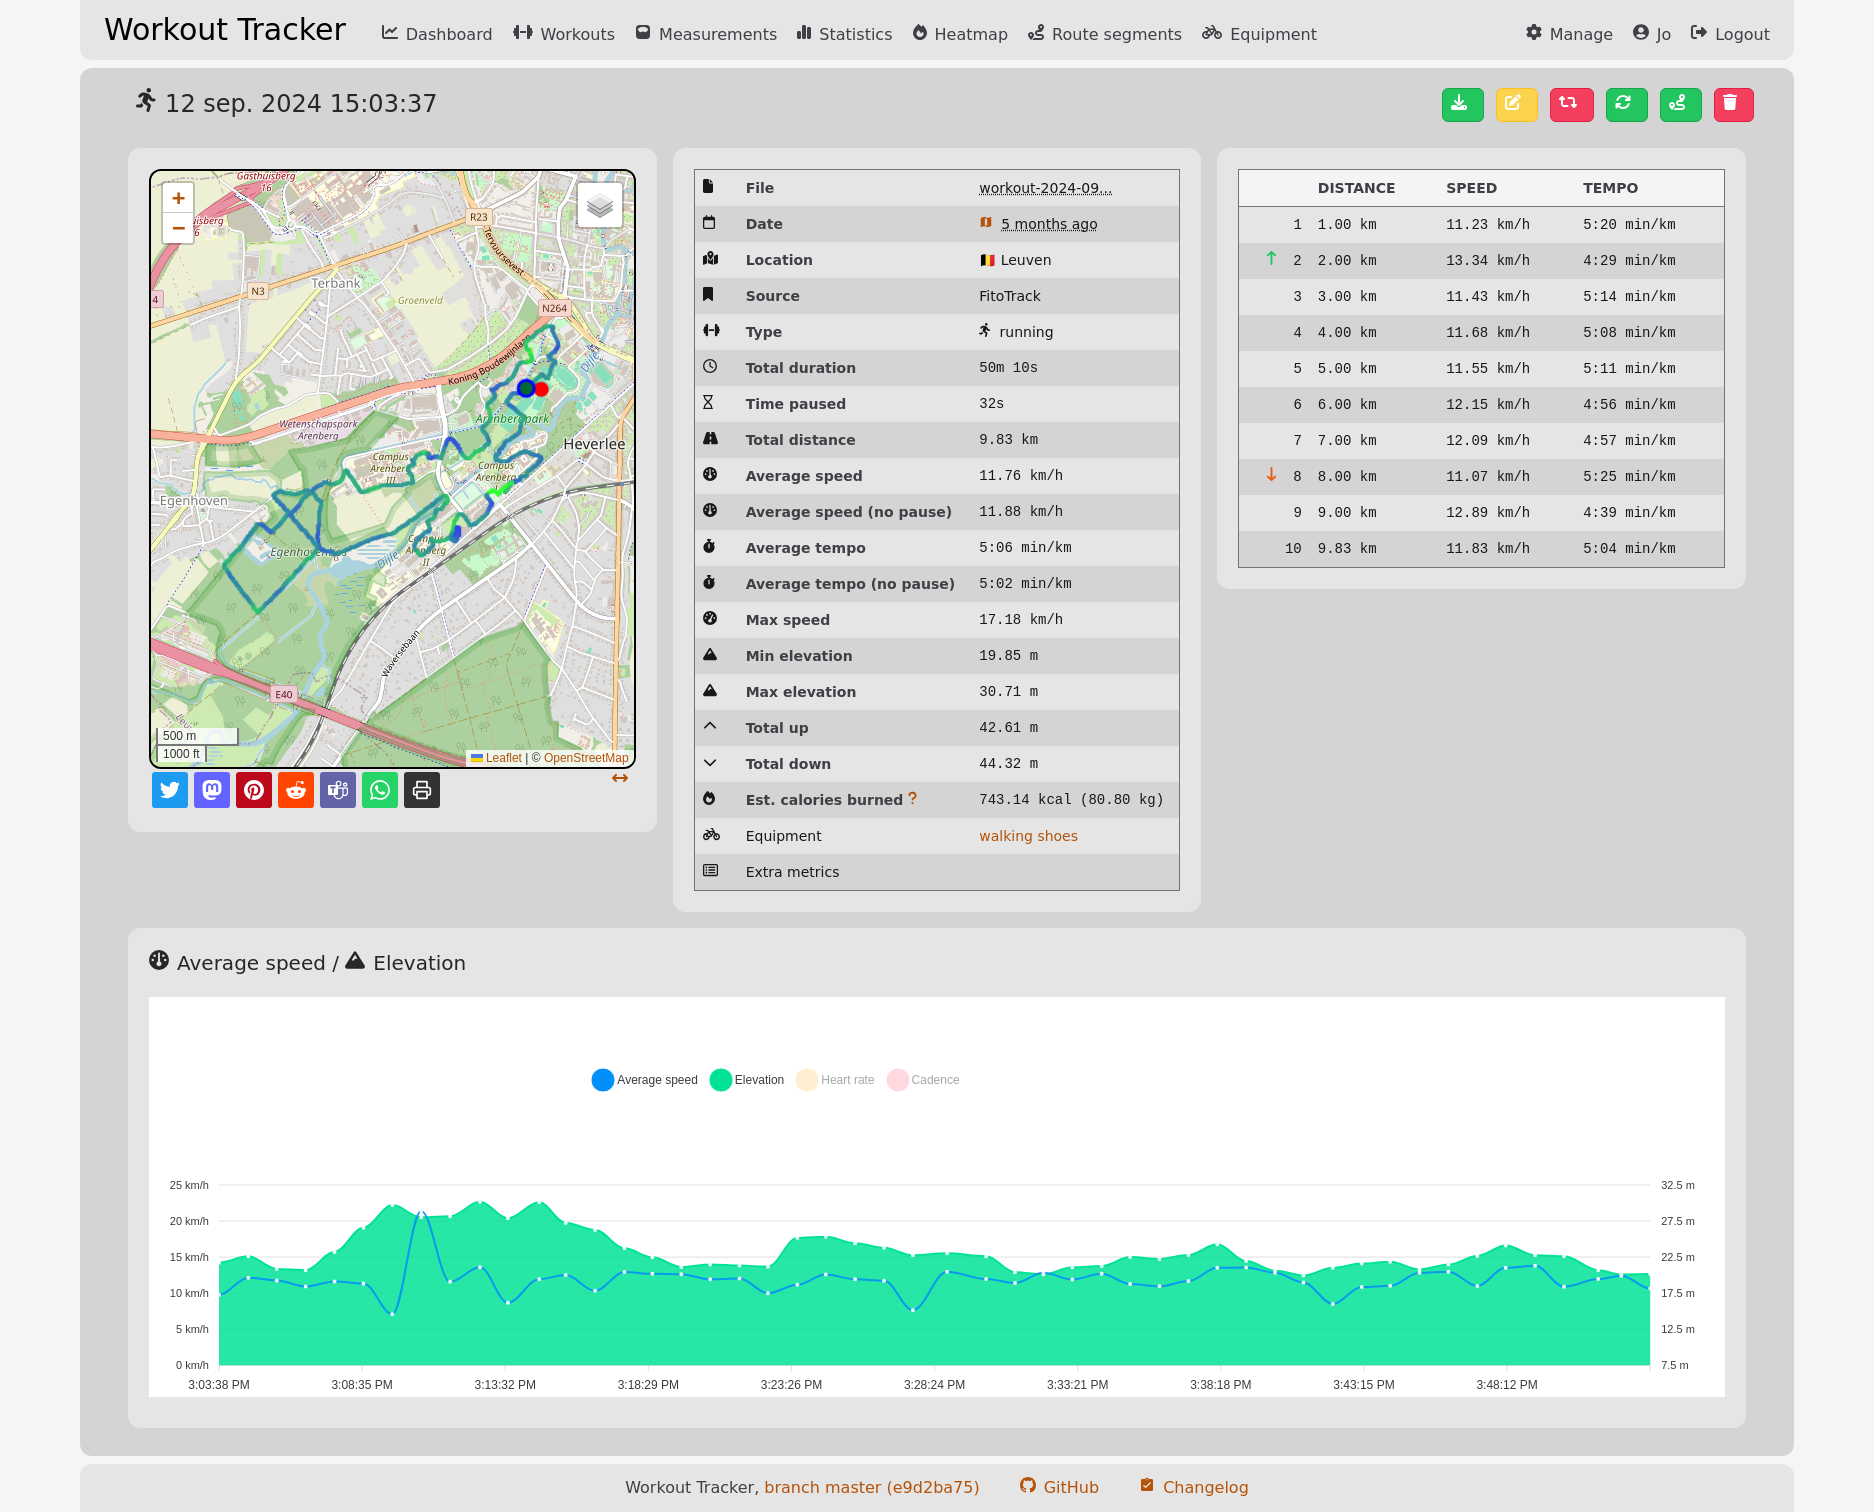
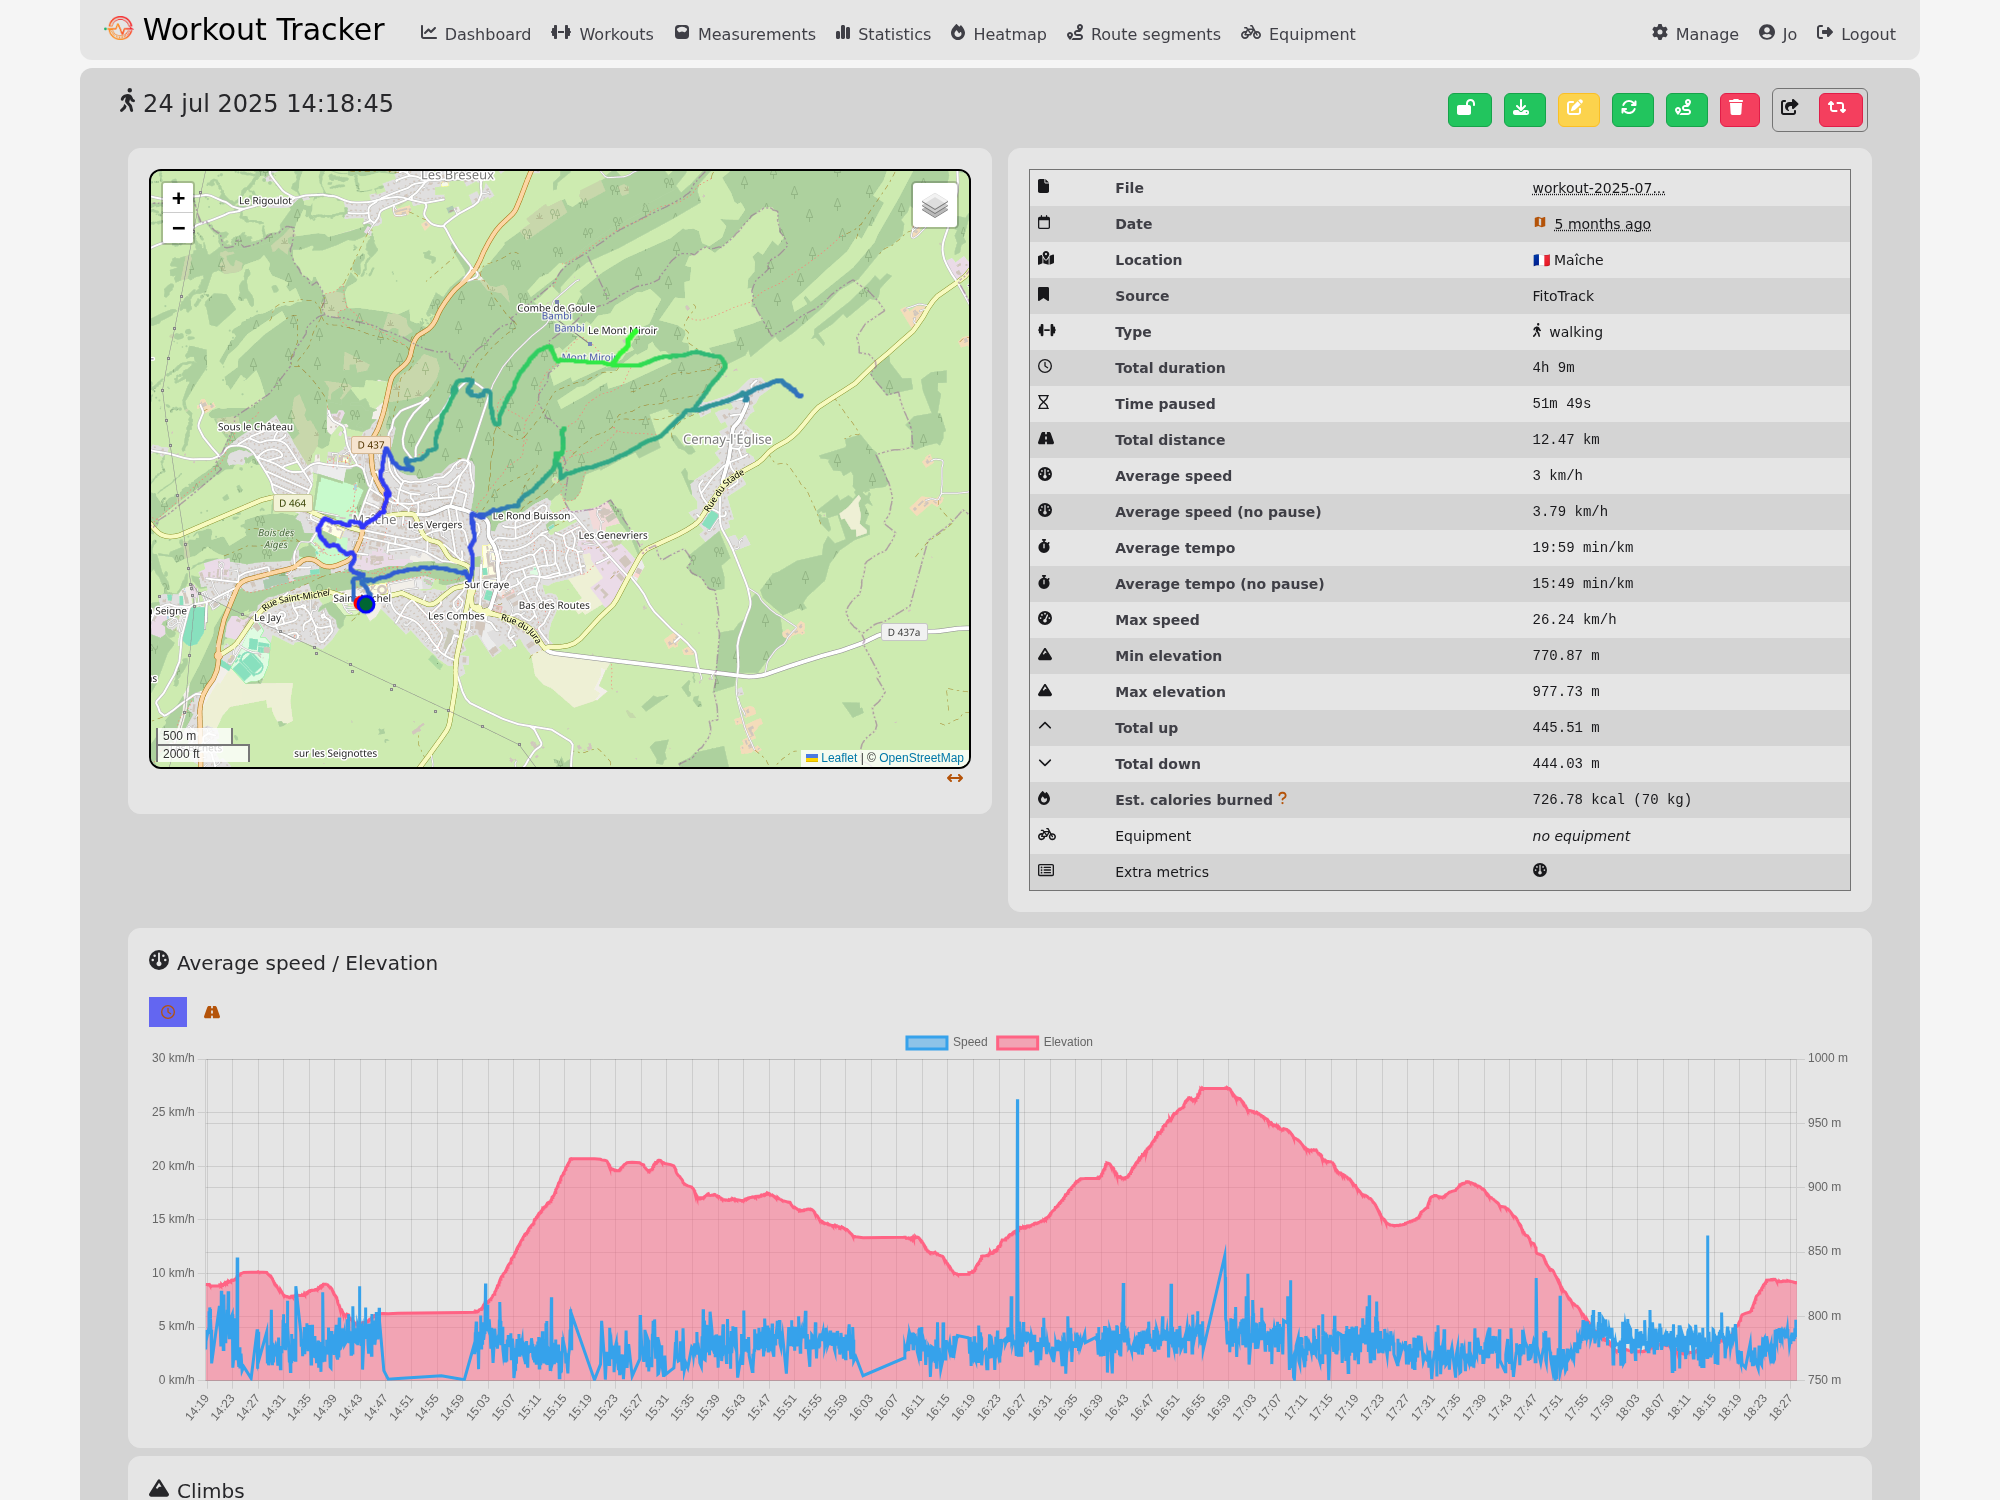
chore(screenshot): Update all screenshots
Regenerate all static screenshots in `docs/` to reflect recent UI changes and
the updated generation process.

Increase the `sleep` duration in the `generate-screenshots` target from 1 second
to 3 seconds. This provides the server more time to initialize before the k6 browser script
attempts to connect, improving the reliability of screenshot generation.

Update the screenshot generation script to use a different workout ID (`487`
instead of `249`) to capture updated content.

Set a larger viewport size (`2000x1500`) before capturing the
`single_workout-dark.png` screenshot to ensure consistent content visibility.

Remove `fullPage: true` from some single workout screenshots as they now target
specific dimensions or are intended to capture key content without capturing
extraneous whitespace.

diff --git a/screenshots.js b/screenshots.js
@@ -86,12 +86,6 @@ export default async function () {
     await page.goto("http://localhost:8180/statistics");
     await page.screenshot({ path: "docs/statistics.png", fullPage: true });
 
-    await page.goto("http://localhost:8180/workouts/249");
-    await page.screenshot({
-      path: "docs/single_workout-dark.png",
-      fullPage: true,
-    });
-
     await page.goto("http://localhost:8180/workouts/add");
     await page.screenshot({ path: "docs/upload_workouts.png", fullPage: true });
 
@@ -106,12 +100,22 @@ export default async function () {
     });
 
     await page.emulateMedia({
+      colorScheme: "dark",
+    });
+    await page.setViewportSize({
+      width: 2000,
+      height: 1500,
+    });
+    await page.goto("http://localhost:8180/workouts/487");
+    await page.screenshot({
+      path: "docs/single_workout-dark.png",
+    });
+    await page.emulateMedia({
       colorScheme: "light",
     });
-    await page.goto("http://localhost:8180/workouts/249");
+    await page.goto("http://localhost:8180/workouts/487");
     await page.screenshot({
       path: "docs/single_workout-light.png",
-      fullPage: true,
     });
 
     // Create screenshots for responsive view
@@ -126,7 +130,7 @@ export default async function () {
     await page.goto("http://localhost:8180/");
     await page.screenshot({ path: "docs/dashboard-responsive.png" });
 
-    await page.goto("http://localhost:8180/workouts/249");
+    await page.goto("http://localhost:8180/workouts/487");
     await page.screenshot({ path: "docs/single_workout-responsive.png" });
 
     await page.goto("http://localhost:8180/statistics");
